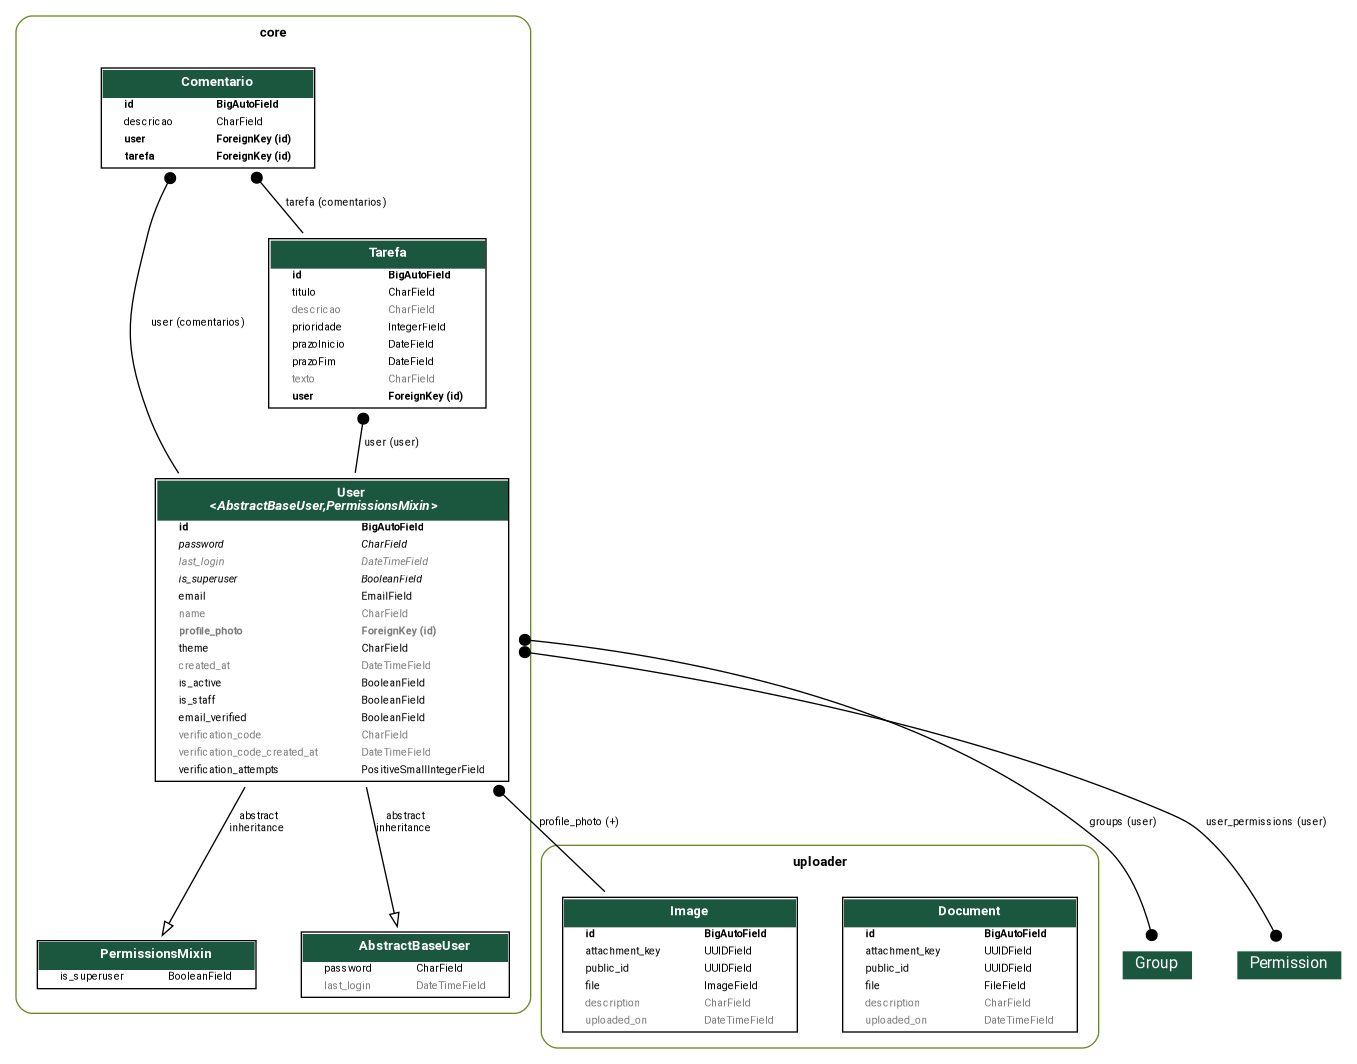
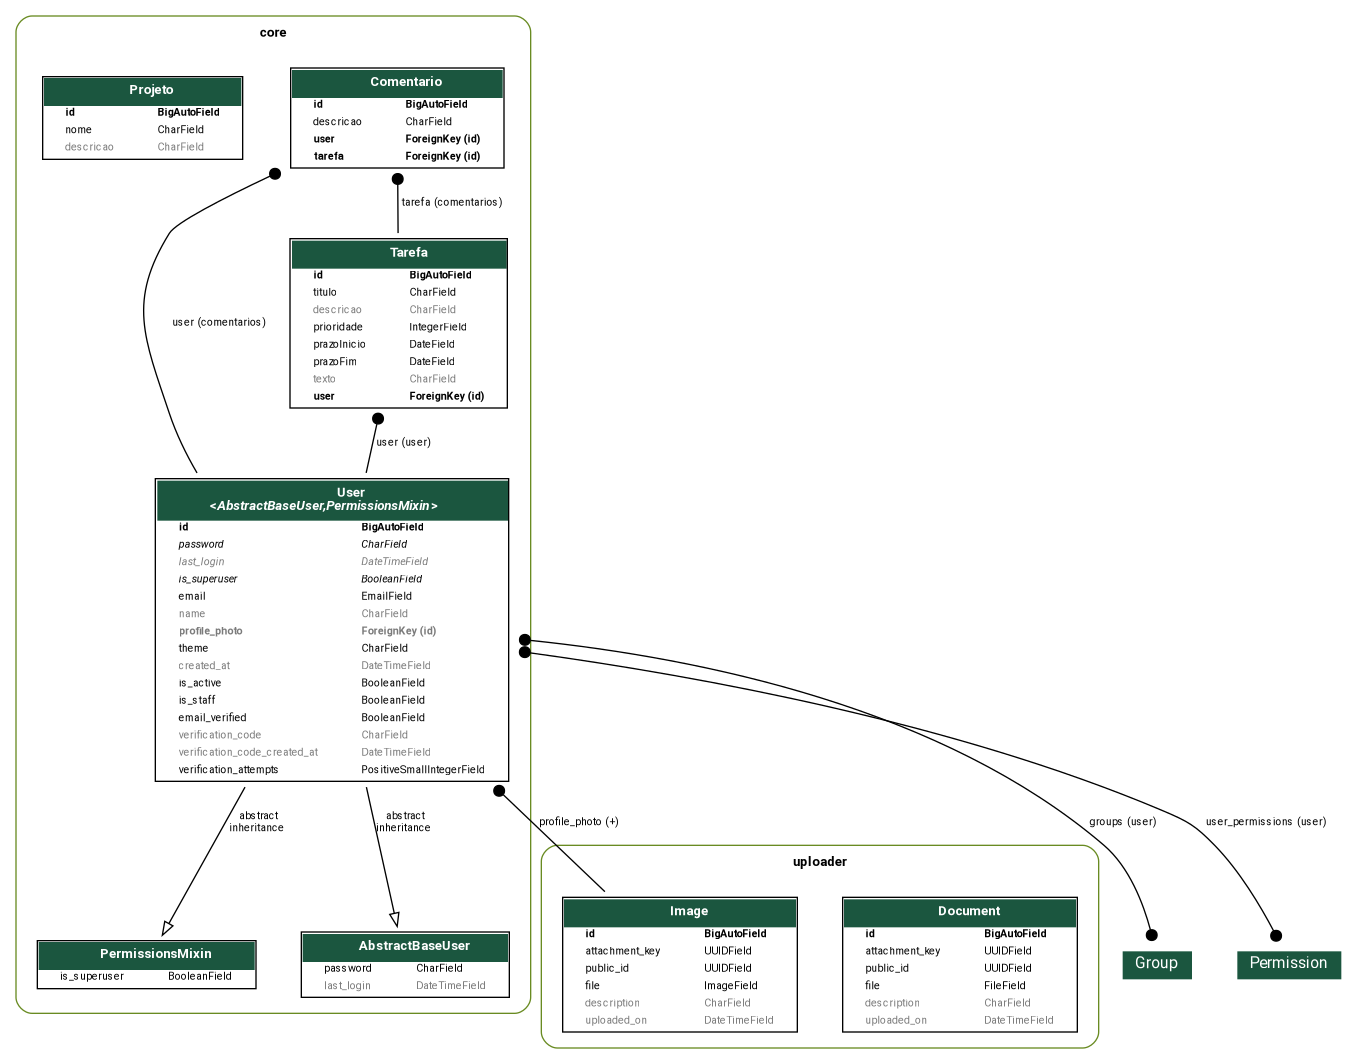
feat: Projeto API [ REFS: #6 ]

Changed region(s): [[0.031, 0.062, 0.3714, 0.4342]]

diff --git a/core/admin.py b/core/admin.py
@@ -3,7 +3,7 @@ from django.contrib.auth.admin import UserAdmin as BaseUserAdmin
 from django.utils.html import format_html
 from django.utils.translation import gettext_lazy as _
 
-from core.models import Comentario, Tarefa, User
+from core.models import Comentario, Tarefa, User, Projeto
 
 
 @admin.register(User)
@@ -183,4 +183,12 @@ class ComentarioAdmin(admin.ModelAdmin):
     search_fields = ('user', 'tarefa',)
     list_filter = ('user', 'tarefa')
     ordering = ('user', 'tarefa',)
+    list_per_page = 10
+
+@admin.register(Projeto)
+class ProjetoAdmin(admin.ModelAdmin):
+    list_display = ('nome',)
+    search_fields = ('nome',)
+    list_filter = ('nome',)
+    ordering = ('nome',)
     list_per_page = 10

diff --git a/core/migrations/0009_projeto.py b/core/migrations/0009_projeto.py
@@ -1,0 +1,21 @@
+# Generated by Django 5.2.18 on 2026-10-23 16:51
+
+from django.db import migrations, models
+
+
+class Migration(migrations.Migration):
+
+    dependencies = [
+        ('core', '0008_comentario'),
+    ]
+
+    operations = [
+        migrations.CreateModel(
+            name='Projeto',
+            fields=[
+                ('id', models.BigAutoField(auto_created=True, primary_key=True, serialize=False, verbose_name='ID')),
+                ('nome', models.CharField(max_length=45)),
+                ('descricao', models.CharField(blank=True, max_length=255, null=True)),
+            ],
+        ),
+    ]

diff --git a/app/urls.py b/app/urls.py
@@ -14,6 +14,7 @@ from core.views import (
     CustomTokenObtainPairView,
     CustomTokenRefreshView,
     CustomTokenVerifyView,
+    ProjetoViewSet,
     ResendVerificationCodeView,
     TarefaViewSet,
     UserRegistrationView,
@@ -26,6 +27,8 @@ router = DefaultRouter()
 router.register(r'usuarios', UserViewSet, basename='usuarios')
 router.register(r'tarefas', TarefaViewSet, basename='tarefas')
 router.register(r'comentarios', ComentarioViewSet, basename='comentarios')
+router.register(r'projetos', ProjetoViewSet, basename='projetos')
+
 
 urlpatterns = [
     path('admin/', admin.site.urls),

diff --git a/core/views/__init__.py b/core/views/__init__.py
@@ -2,3 +2,4 @@ from .token import CustomTokenObtainPairView, CustomTokenRefreshView, CustomToke
 from .user import ResendVerificationCodeView, UserRegistrationView, UserViewSet, VerifyEmailView
 from .tarefa import TarefaViewSet
 from .comentario import ComentarioViewSet
+from .projeto import ProjetoViewSet

diff --git a/core/views/projeto.py b/core/views/projeto.py
@@ -1,0 +1,9 @@
+from rest_framework.viewsets import ModelViewSet
+
+from core.models import Projeto
+from core.serializers import ProjetoSerializer
+
+
+class ProjetoViewSet(ModelViewSet):
+    queryset = Projeto.objects.all()
+    serializer_class = ProjetoSerializer

diff --git a/core/models/projeto.py b/core/models/projeto.py
@@ -1,0 +1,9 @@
+from django.db import models
+
+
+class Projeto(models.Model):
+    nome = models.CharField(max_length=45)
+    descricao = models.CharField(max_length=255, null=True, blank=True)
+
+    def __str__(self):
+        return self.nome

diff --git a/core/serializers/projeto.py b/core/serializers/projeto.py
@@ -1,0 +1,9 @@
+from rest_framework.serializers import ModelSerializer
+
+from core.models import Projeto
+
+
+class ProjetoSerializer(ModelSerializer):
+    class Meta:
+        model = Projeto
+        fields = '__all__'

diff --git a/core/serializers/__init__.py b/core/serializers/__init__.py
@@ -8,3 +8,4 @@ from .user import (
 )
 from .tarefa import TarefaSerializer
 from .comentario import ComentarioSerializer
+from .projeto import ProjetoSerializer

diff --git a/core/models/__init__.py b/core/models/__init__.py
@@ -1,3 +1,4 @@
 from .user import User
 from .tarefa import Tarefa
 from .comentario import Comentario
+from .projeto import Projeto
